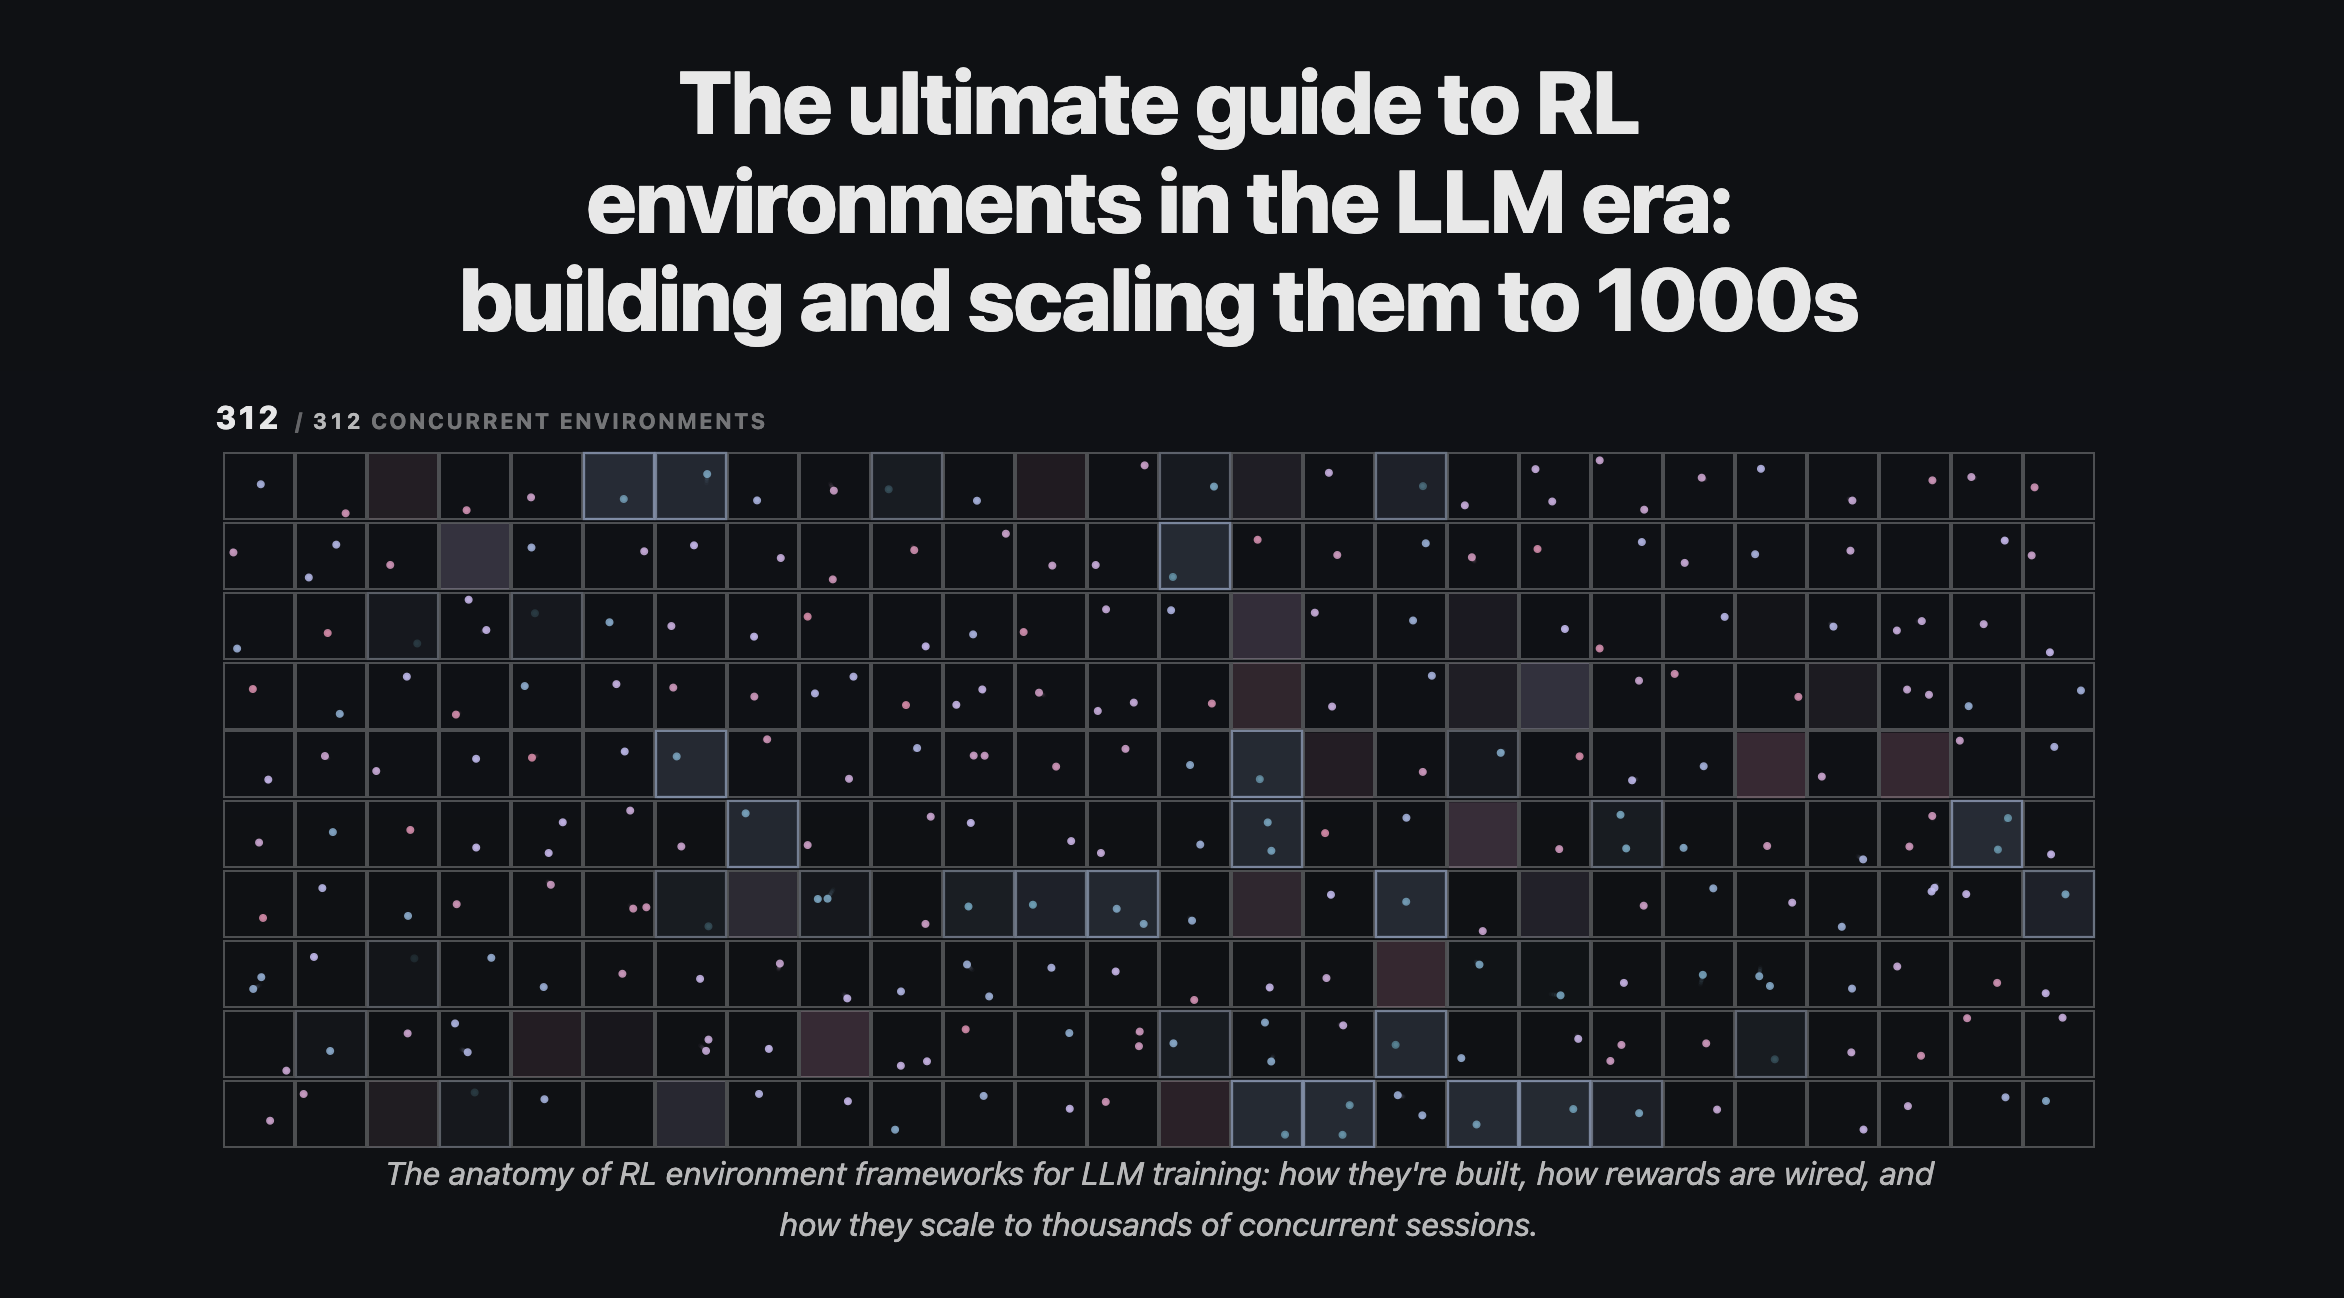
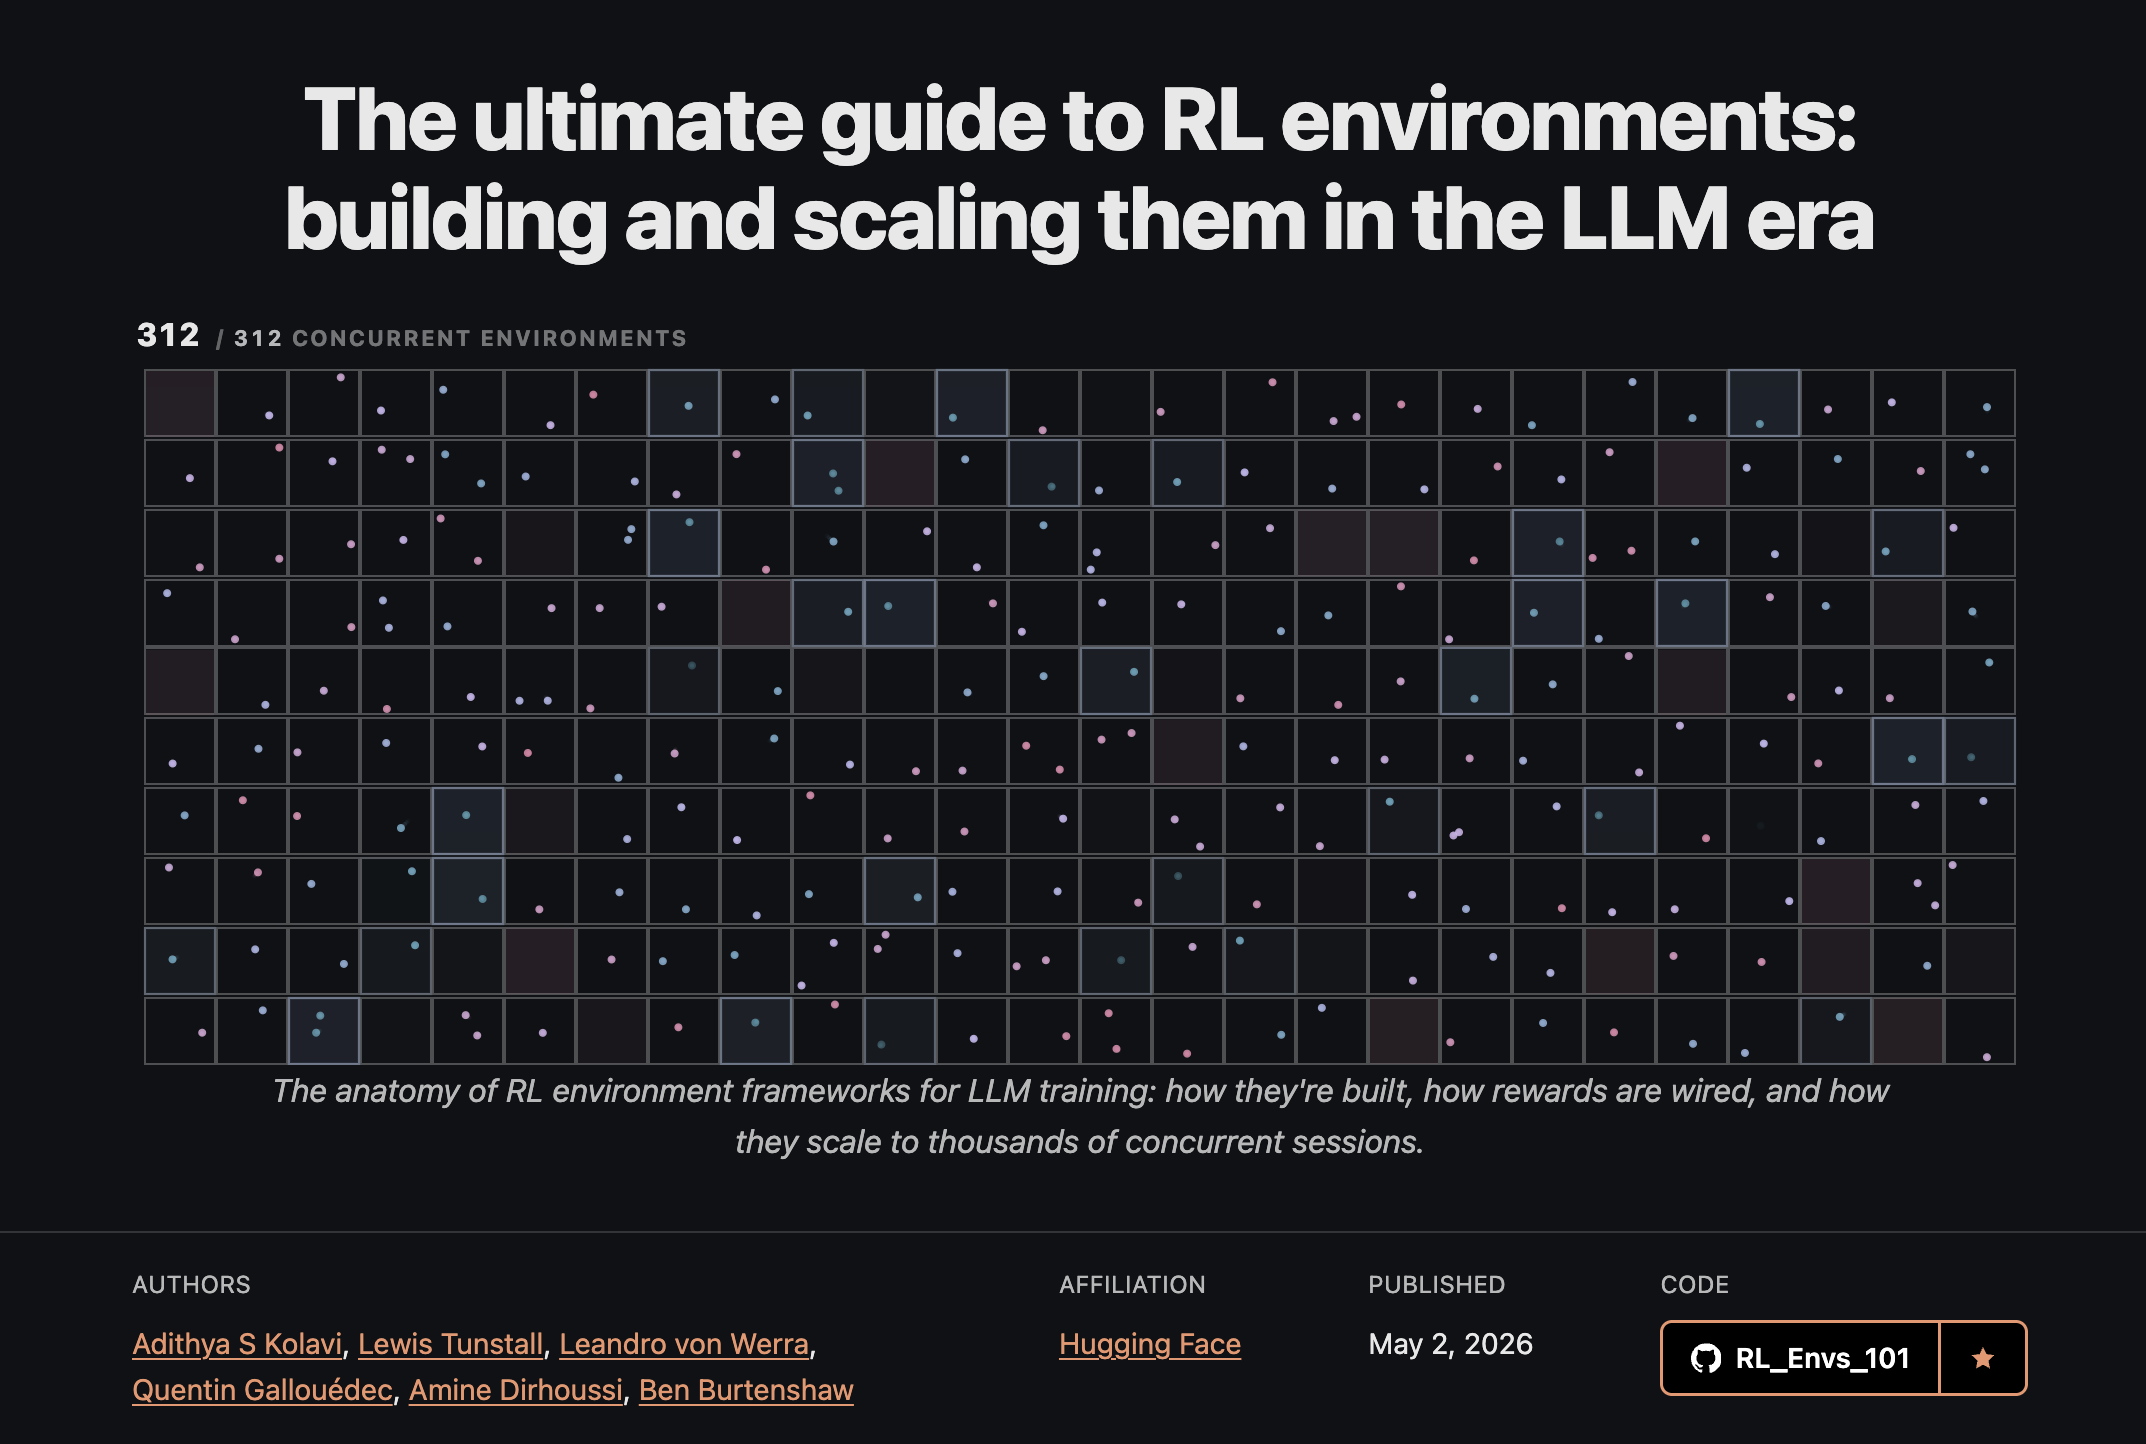
feat: update README with blog post link and enhance introduction

Changed region(s): [[0.0624, 0.0308, 0.9366, 0.9861]]

diff --git a/README.md b/README.md
@@ -1,10 +1,19 @@
 # RL Environments 101: A Guide to Building RL Environments
 
+---
+
+[![Blog post](./assets/blog_thumbnail.png)](https://huggingface.co/spaces/AdithyaSK/rl-environments-guide)
+
+> 📝 **This repo is the companion code to the blog post:** **[RL Environments Guide →](https://huggingface.co/spaces/AdithyaSK/rl-environments-guide)**
+> Read the blog for the full write-up. This repo contains the runnable implementations referenced throughout.
+
+---
+
 A practical, hands-on guide to building RL environments for LLMs.
 
 The idea is simple. Take the **same environment** and reimplement it across **multiple RL environment frameworks** (currently OpenEnv, ORS, NeMo Gym, Verifiers, SkyRL Gym, and GEM) so you can see, side by side, how each one models tools, state, rewards, and episodes. The goal isn't training. It's helping you understand the ecosystem: what each framework actually gives you, where the boundaries are, and what code you have to write yourself.
 
-We start with two reference environments, a **Jupyter agent** (multi-turn, real code execution in an E2B sandbox) and a **Wordle solver** (multi-turn, pure Python), and will keep adding more over time. Each new environment is another "Rosetta stone" entry: same logic, different framework dialects.
+We start with two reference environments, a **Jupyter agent** (multi-turn, real code execution in an E2B sandbox) and a **Wordle solver** (multi-turn, pure Python), and will keep adding more over time. Each new environment is another "Rosetta stone" entry: same logic, different framework dialects. Adding a few other environments soon
 
 If you've ever wondered:
 - What is an "RL environment" really made of?
@@ -14,14 +23,7 @@ If you've ever wondered:
 
 …this repo is the answer. Each framework folder is a **runnable, minimal example** showing how to set up the environment and do a sample LLM rollout against it. We also walk through **how to think about designing an environment** in the first place: the components, the key decisions, and the common pitfalls, independent of any framework.
 
----
 
-[![Blog post](./assets/blog_thumbnail.png)](https://huggingface.co/spaces/AdithyaSK/rl-environments-guide)
-
-> 📝 **This repo is the companion code to the blog post:** **[RL Environments Guide →](https://huggingface.co/spaces/AdithyaSK/rl-environments-guide)**
-> Read the blog for the full write-up. This repo contains the runnable implementations referenced throughout.
-
----
 
 ## Table of Contents
 
